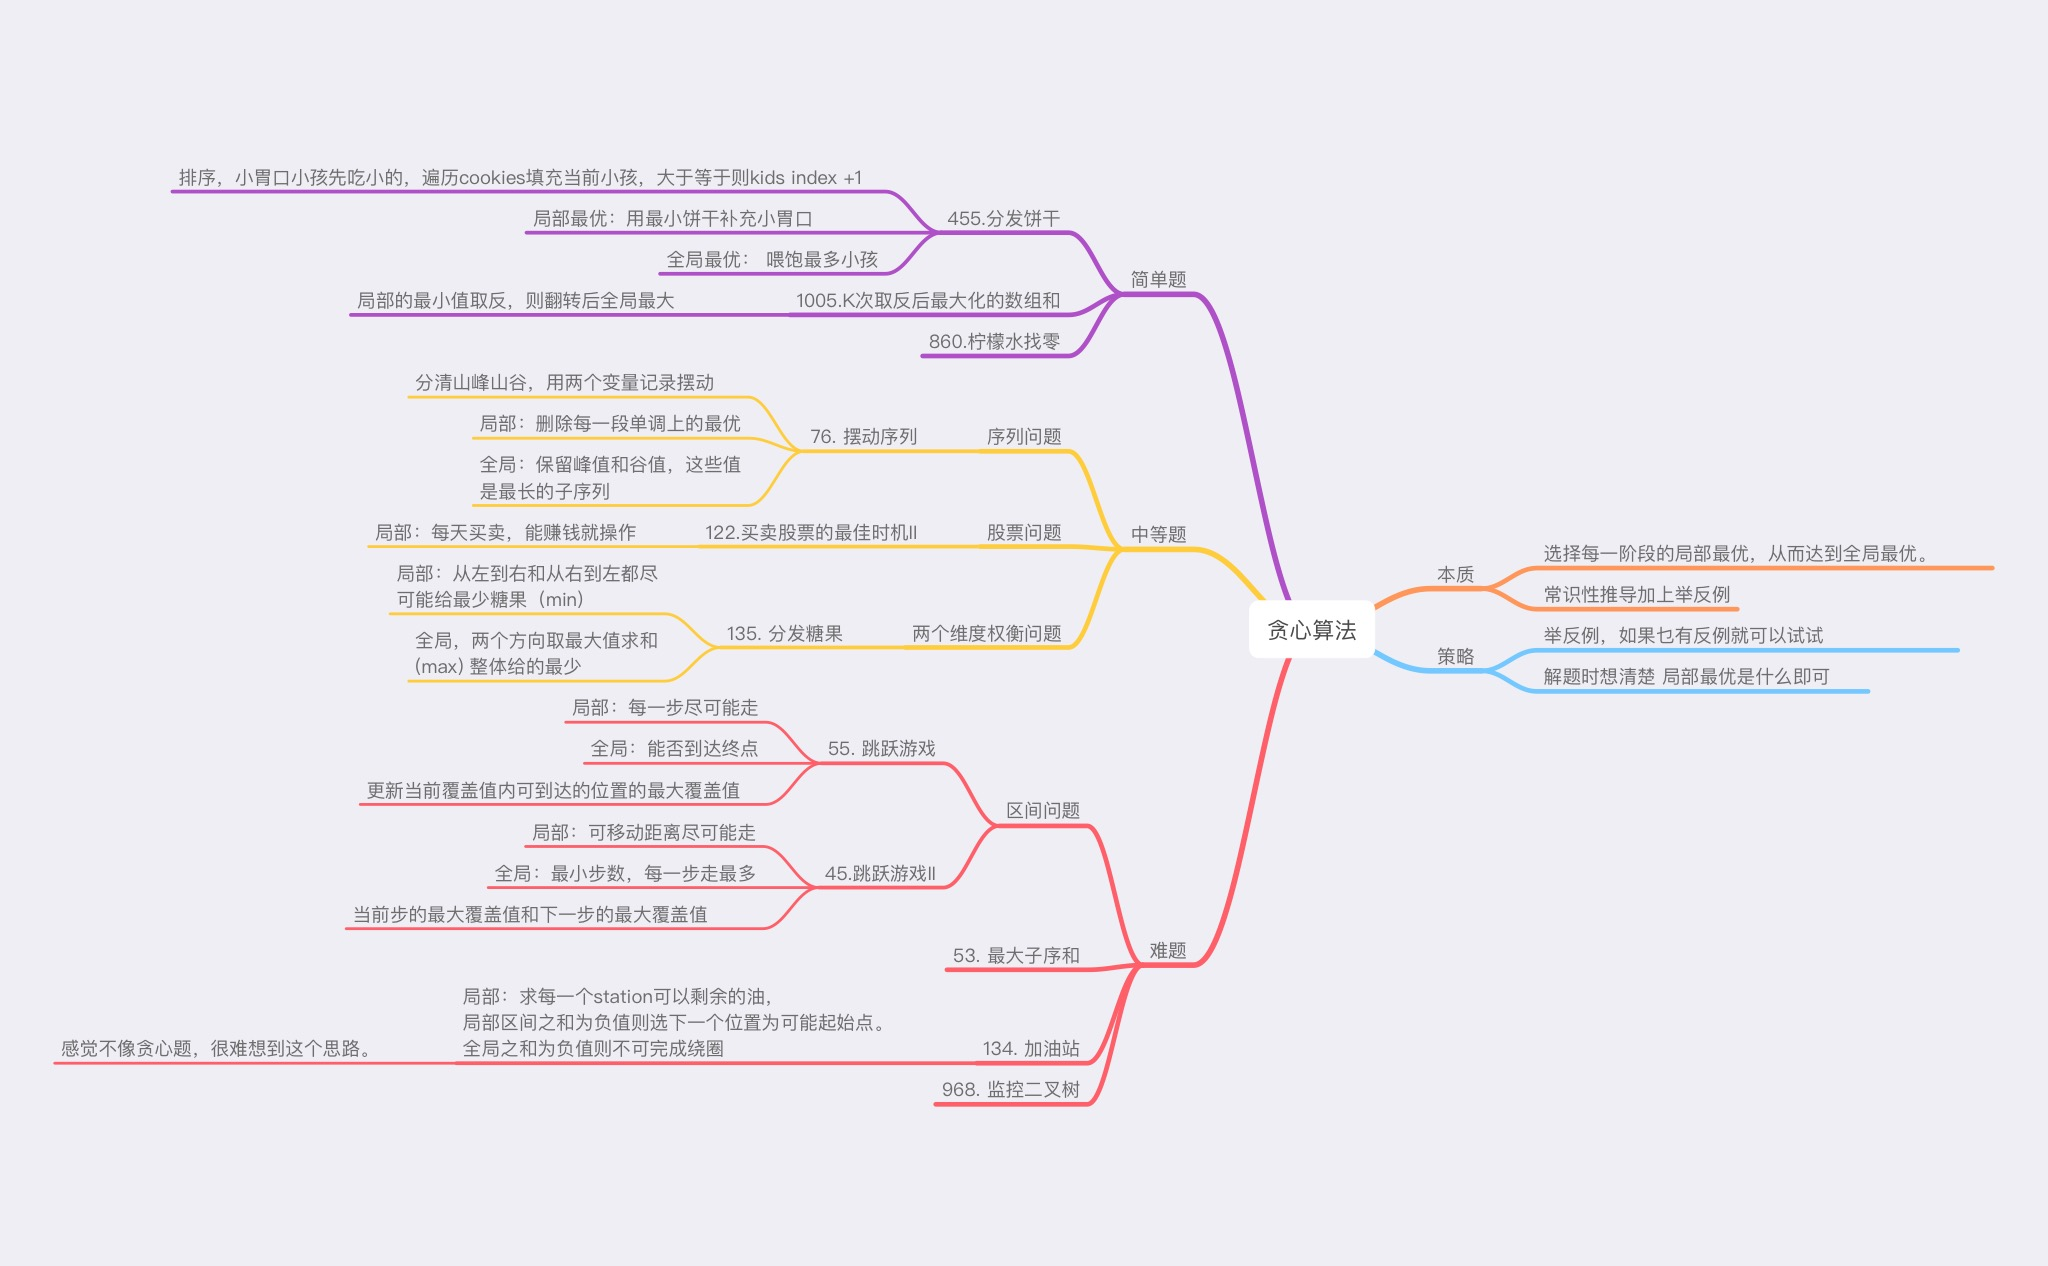
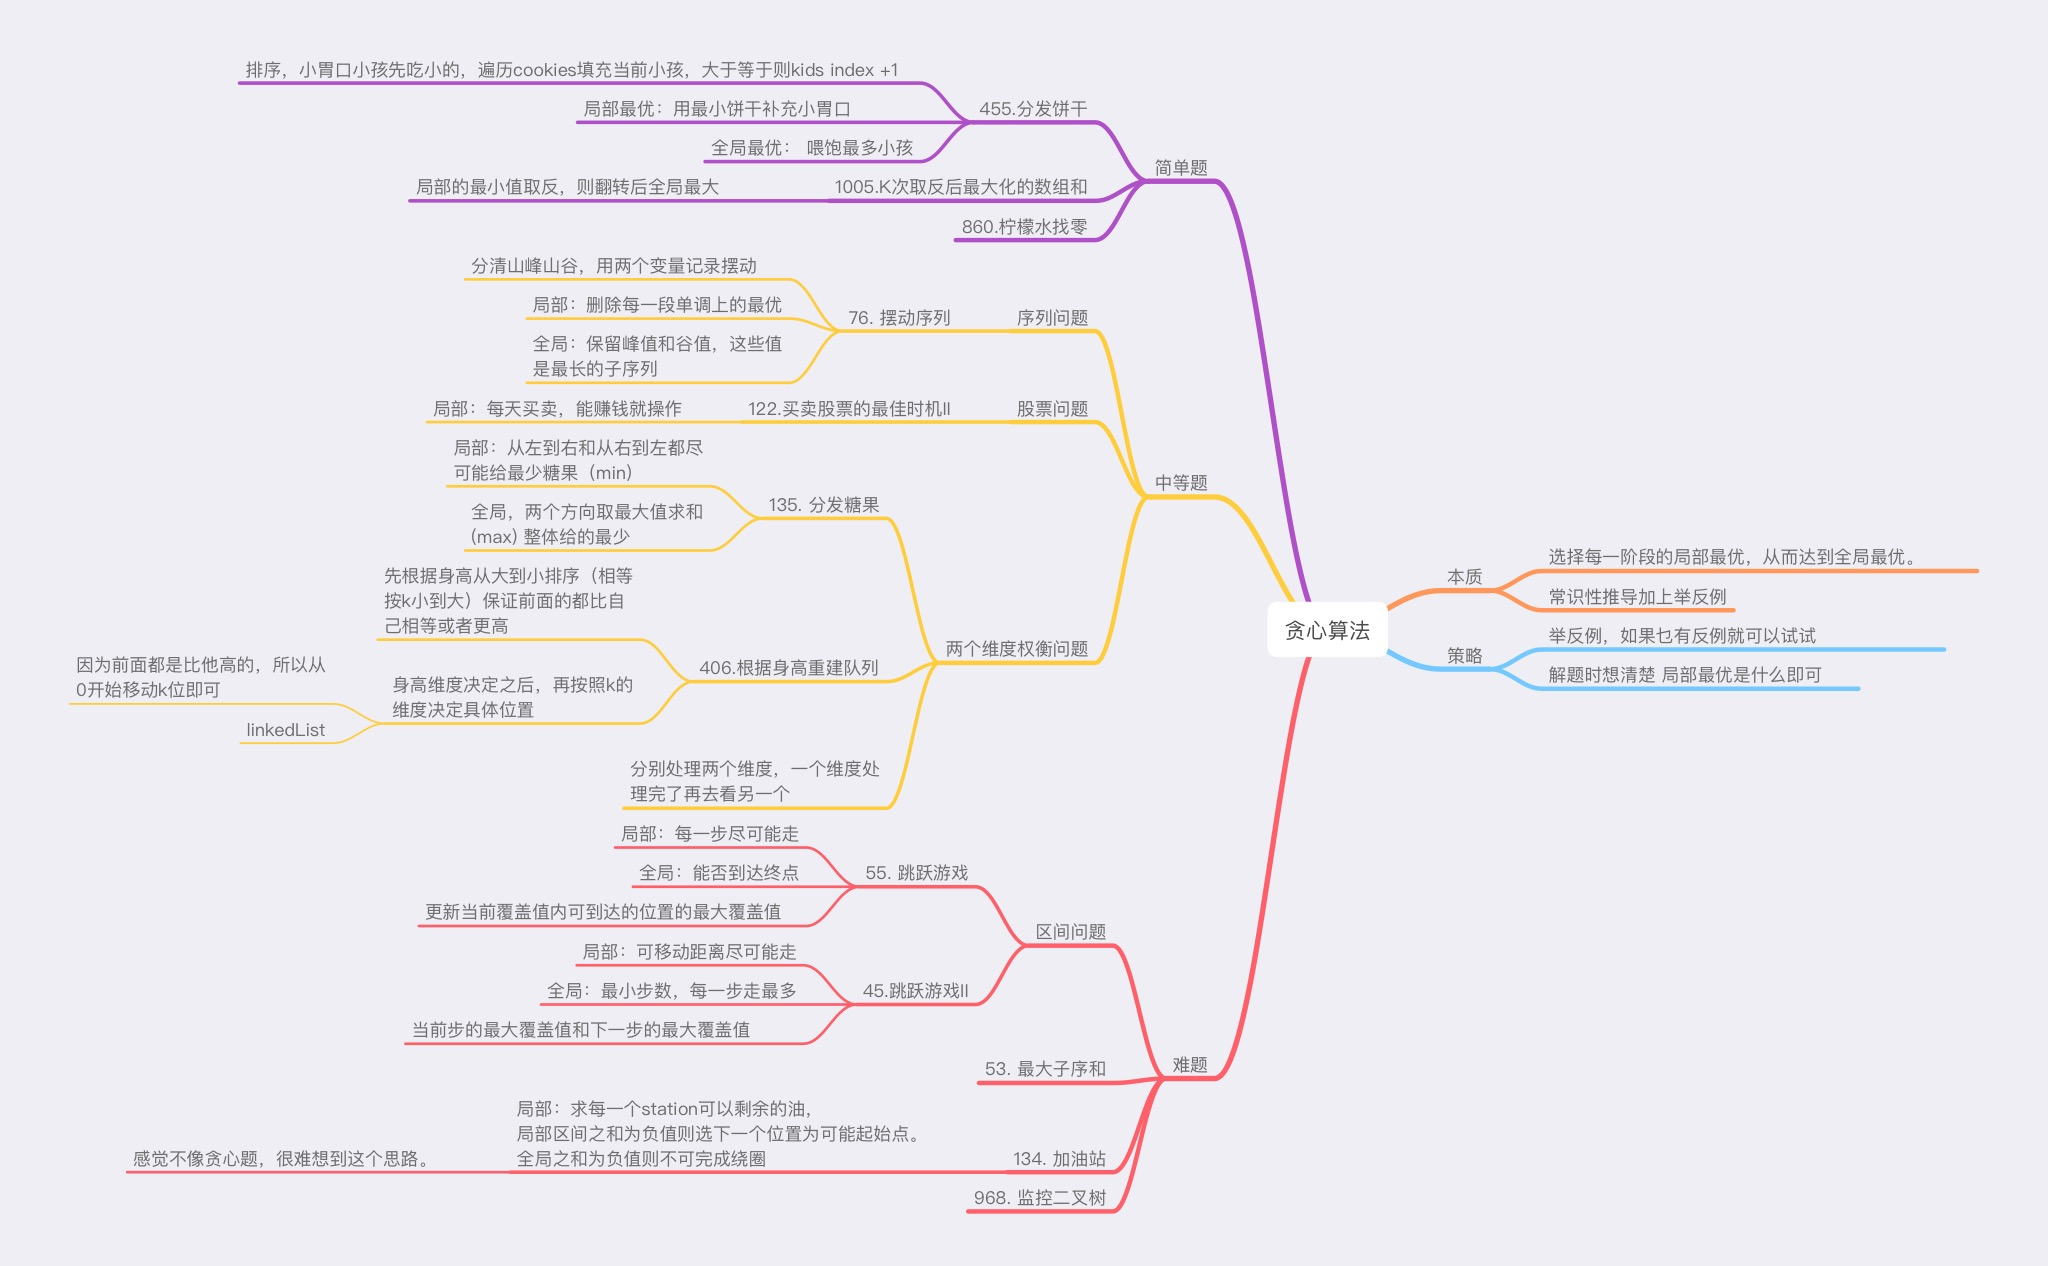
greedy day4

Changed region(s): [[0.0312, 0.0308, 0.9688, 0.9858], [0.5938, 0.154, 0.625, 0.1848]]

diff --git a/Questions/Greedy/860. Lemonade Change.md b/Questions/Greedy/860. Lemonade Change.md
@@ -1,0 +1,80 @@
+# [Lemonade Change - LeetCode](https://leetcode.com/problems/lemonade-change/description/)
+## Tag
+#greedy
+
+
+## 审题（关键词） 
+找零，购买5元，会收到5， 10， 20，求能否找零
+
+## 初始思路  
+1. 收到5， 池子增加5元（固定）
+2. 收到10，池子增加10元，使用5找零（固定）
+3. 收到20，优先付出10+5元，不可以再使用3个5元
+   - 这里使用了贪心思维：尽量消费10元，因为10元只能给20元进行找零，但是5元还可以给10找零
+- 局部最优：遇到账单20，优先消耗美元10，完成本次找零。
+- 全局最优：完成全部账单的找零。
+
+## 考点  
+5和10 都固定， 对于20如何贪心选择
+
+## 解法  
+```java
+class Solution {
+    public boolean lemonadeChange(int[] bills) {
+        int[] changes = new int[3]; // 5, 10, 20 numbers
+
+        for (int i = 0; i < bills.length; i++) {
+            int currBill = bills[i];
+
+            if (currBill == 5) {
+                changes[0] += 1;
+            } 
+            
+            if (currBill == 10) {
+                // comes in a 10:
+                // need change: 5
+                changes[0] -= 1; // reduce 5
+                changes[1] += 1; // add 10
+            }
+            
+            if (currBill == 20) {
+                // comes in a 20:
+                // greedy:
+                // 尽可能先用10块
+                boolean paid10 = false;
+                if (changes[1] > 0) {
+                    changes[1] -= 1;
+                    paid10 = true;
+                } 
+
+                // 使用了10块
+                if (paid10){
+                    changes[0] -= 1;
+                } else {
+                    changes[0] -= 3;
+                }
+
+                changes[2] += 1;
+            }
+
+            // 判断正误的情况拉出来一起判断，增加代码简洁
+            if (!validChanges(changes)) {
+                return false;
+            }
+        }
+
+        return true;
+    }
+
+    boolean validChanges(int[] changes) {
+        for (int c : changes) {
+            if (c < 0) {
+                return false;
+            }
+        }
+
+        return true;
+    }
+}
+```
+

diff --git a/Questions/Greedy/406. Queue Reconstruction by Height.md b/Questions/Greedy/406. Queue Reconstruction by Height.md
@@ -1,0 +1,57 @@
+---
+title: 406. Queue Reconstruction by Height
+date: 2023/05/24
+author: Runming
+type: 题解
+---
+
+> 跟[[135. Candy]]同样是两个维度的题目，不要两头兼顾，需要明确哪个维度最先确定（身高）。
+# [Queue Reconstruction by Height - LeetCode](https://leetcode.com/problems/queue-reconstruction-by-height/description/)
+## Tag
+#greedy
+
+## 审题（关键词） 
+按身高从高到低排序，要求每个人前面刚好有k个比他高的人
+
+## 初始思路  
+有两个维度，身高维度和比他高的人数k的维度。  
+所以分别处理两个维度，一个维度处理完了再去看另一个  
+那么最先处理哪个维度？  
+身高维度，处理k的维度并不能带来有序。  
+身高从高到低，再根据k调整顺序，因为把身高矮的插入前面并不会打乱前面的k（比本人高的）顺序  
+- 局部最优：优先按身高高的people的k来插入。插入操作过后的people满足队列属性
+- 全局最优：最后都做完插入操作，整个队列满足题目队列属性
+
+## 考点  
+处理两个维度，贪心
+
+## 解法  
+```java
+class Solution {
+    public int[][] reconstructQueue(int[][] people) {
+        // 根据身高增序排序，相等则按照k降序
+        Arrays.sort(people, (a, b) -> {
+            if (a[0] == b[0]) {
+                // 根据k升序。
+                return a[1] - b[1];
+            } else {
+                return b[0] - a[0];
+            }
+        });
+
+        LinkedList<int[]> peopleLinked = new LinkedList<>();
+        for (int[] p : people) {
+            // 在正确的k位置插入p
+            // 矮的就保证自己前面只有k个比他高的
+            // 所以从前往后遍历排序后的数组，直接index = k即可
+            peopleLinked.add(p[1], p);
+        }
+
+        return peopleLinked.toArray(new int[people.length][]);
+    }
+}
+```
+
+## 难点
+- 如何处理两个维度，先确定哪个维度？ 身高维度优先
+- 使用什么数据结构处理 k的调整？使用链表，因为需要多次插入，且位置就是k。

diff --git a/Questions/Greedy/452. Minimum Number of Arrows to Burst Balloons.md b/Questions/Greedy/452. Minimum Number of Arrows to Burst Balloons.md
@@ -1,0 +1,54 @@
+---
+title: 452. Minimum Number of Arrows to Burst Balloons
+date: 2023/05/24
+author: Runming
+type: 题解
+---
+
+# [Minimum Number of Arrows to Burst Balloons - LeetCode](https://leetcode.com/problems/minimum-number-of-arrows-to-burst-balloons/description/)
+## Tag
+#greedy
+
+## 审题（关键词）
+射气球，用最少的箭射击全部气球
+
+## 初始思路  
+- 局部：用最少的箭射击重叠最多的气球
+- 全局： 用箭最少
+
+
+## 考点
+重叠区间，贪心算法。  
+
+## 解法  
+```java
+class Solution {
+    public int findMinArrowShots(int[][] points) {
+        // 根据起点进行排序
+        Arrays.sort(points, (a, b) -> Integer.compare(a[0], b[0]));
+        
+        int count = 1;
+        for (int i = 1; i < points.length; i++) {
+            if (points[i][0] > points[i - 1][1]) {
+                // 没有重合，则需要一根箭刺破之前的所有重叠的气球
+                count++;
+            } else {
+                // 重合，更新重叠区间
+                // 贪心：尽可能的叠更多的气球，
+                // 按起始点排序的话，我们让重叠部分往之前的区间靠。
+                // 将本区间的末尾更新为重叠区间的末尾
+                points[i][1] = Math.min(points[i][1], points[i - 1][1]);
+            }
+        }
+
+        return count;
+    }
+}
+```
+
+## 难点
+1. 代码上没有必要射一个气球就将它排除数组：
+    - 如果把气球排序之后，从前到后遍历气球，被射过的气球仅仅跳过就行了，没有必要让气球数组remove气球，只要记录一下箭的数量就可以了。
+2. 如何排序？
+   1. 往左靠或右都可以，如果按照起始位置排序，那么就从前向后遍历气球数组，靠左尽可能让气球重复。
+3. 当下一个气球不跟上一个区间（靠左）重叠，则需要一支箭刺破所有之前的重叠气球。

diff --git a/Questions/Template/Common.md b/Questions/Template/Common.md
@@ -16,3 +16,14 @@
       ```java
       Collections.reverse(arraylist);
       ```
+2. 排序, 使用compare
+      ```java
+      Arrays.sort(points, (a, b) -> Integer.compare(a[0], b[0]));
+      ```
+3. 排序多维数组，增加不同条件 (a[0]增序，相等a[1]降序）：
+      ```java
+      Arrays.sort(people, (a, b) -> {
+            if (a[0] == b[0]) return a[1] - b[1];
+            return b[0] - a[0];
+        });
+      ```
